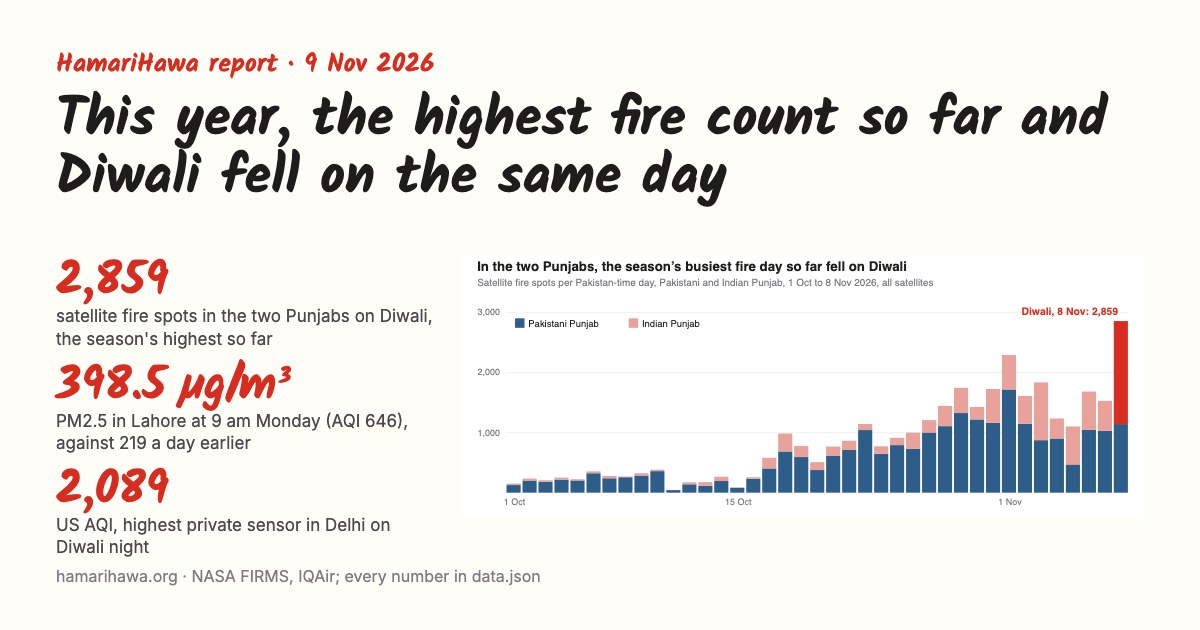
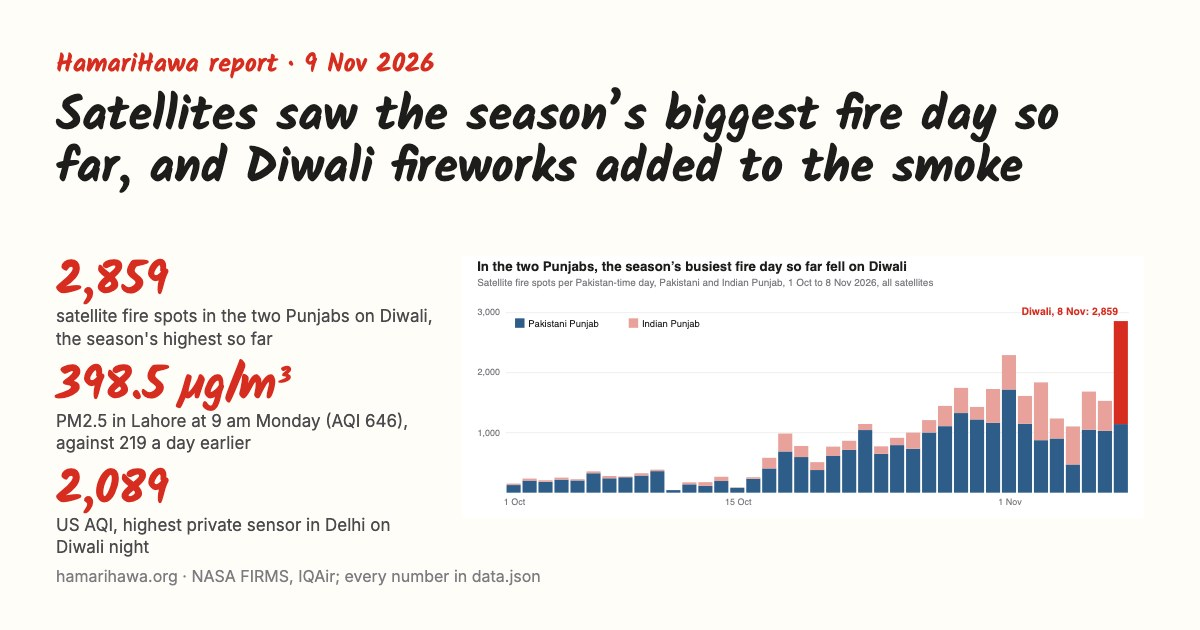
Diwali report: new headline, "Satellites saw the season's biggest fire day so far, and Diwali fireworks added to the smoke"
In English, Urdu and Hindi, with the share card, reports list, llms.txt and data.json title. The body is
unchanged: it still says the data cannot separate fireworks, crop fires and local pollution in Lahore.

Claude-Session: https://claude.ai/code/session_01XnfStAvKSSNNwFyoarvXU5

Changed region(s): [[0.0308, 0.1206, 0.925, 0.3317]]

diff --git a/site/public/report/lahore-morning-after-diwali/index.html b/site/public/report/lahore-morning-after-diwali/index.html
@@ -15,11 +15,11 @@
 </script>
 <meta charset="utf-8">
 <meta name="viewport" content="width=device-width, initial-scale=1">
-<title>This year, the highest fire count so far and Diwali fell on the same day · HamariHawa</title>
+<title>Satellites saw the season&#x27;s biggest fire day so far, and Diwali fireworks added to the smoke · HamariHawa</title>
 <meta name="description" content="On Diwali, 8 November, satellites picked up 2,859 fire spots in the two Punjabs, the season&#x27;s highest so far; in no season since 2019 had the busiest day fallen on Diwali. Private sensors in Delhi showed AQI above 1,000 that night, and IQAir&#x27;s Lahore figure rose after midnight to 398.5 µg/m³ of PM2.5 by 9 am Monday.">
 <link rel="canonical" href="https://hamarihawa.org/report/lahore-morning-after-diwali/">
 <meta property="og:type" content="website">
-<meta property="og:title" content="This year, the highest fire count so far and Diwali fell on the same day · HamariHawa">
+<meta property="og:title" content="Satellites saw the season&#x27;s biggest fire day so far, and Diwali fireworks added to the smoke · HamariHawa">
 <meta property="og:description" content="On Diwali, 8 November, satellites picked up 2,859 fire spots in the two Punjabs, the season&#x27;s highest so far; in no season since 2019 had the busiest day fallen on Diwali. Private sensors in Delhi showed AQI above 1,000 that night, and IQAir&#x27;s Lahore figure rose after midnight to 398.5 µg/m³ of PM2.5 by 9 am Monday.">
 <meta property="og:site_name" content="HamariHawa">
 <meta property="og:url" content="https://hamarihawa.org/report/lahore-morning-after-diwali/">
@@ -33,7 +33,7 @@
 <meta name="twitter:card" content="summary_large_image">
 <meta name="twitter:site" content="@hamarihawa">
 <meta name="twitter:creator" content="@hammadtariq">
-<meta name="twitter:title" content="This year, the highest fire count so far and Diwali fell on the same day · HamariHawa">
+<meta name="twitter:title" content="Satellites saw the season&#x27;s biggest fire day so far, and Diwali fireworks added to the smoke · HamariHawa">
 <meta name="twitter:description" content="On Diwali, 8 November, satellites picked up 2,859 fire spots in the two Punjabs, the season&#x27;s highest so far; in no season since 2019 had the busiest day fallen on Diwali. Private sensors in Delhi showed AQI above 1,000 that night, and IQAir&#x27;s Lahore figure rose after midnight to 398.5 µg/m³ of PM2.5 by 9 am Monday.">
 <meta name="twitter:image" content="https://hamarihawa.org/report/lahore-morning-after-diwali/share.jpg">
 <meta name="twitter:image:alt" content="On Diwali, 8 November, satellites picked up 2,859 fire spots in the two Punjabs, the season&#x27;s highest so far; in no season since 2019 had the busiest day fallen on Diwali. Private sensors in Delhi showed AQI above 1,000 that night, and IQAir&#x27;s Lahore figure rose after midnight to 398.5 µg/m³ of PM2.5 by 9 am Monday.">
@@ -78,8 +78,8 @@
  "@context": "https://schema.org",
  "@type": "Report",
  "@id": "https://hamarihawa.org/report/lahore-morning-after-diwali/#report",
- "name": "This year, the highest fire count so far and Diwali fell on the same day",
- "headline": "This year, the highest fire count so far and Diwali fell on the same day",
+ "name": "Satellites saw the season's biggest fire day so far, and Diwali fireworks added to the smoke",
+ "headline": "Satellites saw the season's biggest fire day so far, and Diwali fireworks added to the smoke",
  "url": "https://hamarihawa.org/report/lahore-morning-after-diwali/",
  "datePublished": "2026-11-09",
  "inLanguage": [
@@ -105,7 +105,7 @@
  "abstract": "Crop burning and Diwali fireworks both add smoke to the air of the two Punjabs each autumn. On Sunday 8 November 2026 they fell on the same day: satellites picked up 2,859 fire spots across Pakistani and Indian Punjab, the most of any day of the season so far, on every counting basis checked; in none of the seasons from 2019 to 2025 had the busiest day fallen on Diwali. That night all three private sensors in Delhi on IQAir passed US AQI 1,000, up to 2,089, as did three Delhi Pollution Control Committee feeds, while 17 feeds attributed to the Central Pollution Control Board stayed below 200 for reasons we could not establish. IQAir's Lahore city figure rose after midnight to 398.5 µg/m³ of PM2.5 (US AQI 646) at 9 am on Monday, against 219 a day earlier; 48 of 49 Lahore station feeds with readings on both mornings were higher. Multan and Faisalabad rose too. Punjab's Environment Protection Department had warned of the rise, according to a Dunya News report, while the CAMS model series retrieved on Monday had Lahore getting cleaner. Modelled winds suggest Lahore's overnight air came from Indian Punjab. The data cannot separate the contributions of fireworks, crop fires and the cities' own pollution.",
  "isBasedOn": {
   "@type": "Dataset",
-  "name": "Evidence for \"This year, the highest fire count so far and Diwali fell on the same day\"",
+  "name": "Evidence for \"Satellites saw the season's biggest fire day so far, and Diwali fireworks added to the smoke\"",
   "url": "https://hamarihawa.org/report/lahore-morning-after-diwali/data.json",
   "license": "https://creativecommons.org/licenses/by/4.0/"
  }
@@ -170,7 +170,7 @@
 <main class="doc wide">
 <article data-lang="en">
   <p class="kicker">Report · 9 Nov 2026</p>
-  <h1>This year, the highest fire count so far and Diwali fell on the same day</h1>
+  <h1>Satellites saw the season's biggest fire day so far, and Diwali fireworks added to the smoke</h1>
   <p class="byline">By <a href="https://hammadtariq.com/" rel="author">Hammad Tariq</a></p>
   <p class="lede">Every autumn, two human activities add smoke to the air of both Punjabs: farmers burning crop stubble, and Diwali fireworks. This year they fell on the same day. On Sunday 8 November, Diwali, satellites picked up 2,859 fire spots across Pakistani and Indian Punjab, the most of any day this season so far; in none of the seven seasons from 2019 to 2025 had the busiest day fallen on Diwali. That night, private air sensors in Delhi displayed US AQI readings above 1,000, up to 2,089. In Lahore, IQAir's city figure rose through the night after midnight and reached 398.5 µg/m³ of fine particles (PM2.5), a US AQI of 646, at 9 am on Monday, against 219 at the same hour on Sunday. Multan and Faisalabad rose too. Punjab's Environment Protection Department had warned of this on Sunday afternoon, according to a Dunya News report; the CAMS model series we retrieved on Monday had Lahore getting cleaner overnight. What the data cannot do is say how much of Monday morning came from the fires, how much from fireworks on either side of the border, and how much from Lahore itself.</p>
   <div class="facts"><div class="fact sketch"><b dir="ltr">2,859</b><span>satellite fire spots in the two Punjabs on Diwali, 8 November: the season's highest so far</span></div><div class="fact sketch"><b dir="ltr">398.5</b><span>µg/m³ PM2.5, IQAir's Lahore city figure at 9 am Monday (AQI 646), against 219 a day earlier</span></div><div class="fact sketch"><b dir="ltr">48 of 49</b><span>Lahore station feeds on IQAir higher at 9 am Monday than at 9 am Sunday</span></div><div class="fact sketch"><b dir="ltr">2,089</b><span>US AQI, the highest of three private sensors in Delhi that passed 1,000 on Diwali night</span></div></div>
@@ -247,7 +247,7 @@
 </article>
 <article data-lang="ur" hidden>
   <p class="kicker">رپورٹ · 9 نومبر 2026</p>
-  <h1>اس سال فصلوں کی آگ کا اب تک کا سب سے بڑا دن اور دیوالی ایک ہی دن آئے</h1>
+  <h1>سیٹلائٹ نے اس سیزن کا اب تک کا سب سے بڑا آگ والا دن دیکھا، اور دیوالی کی آتش بازی نے دھواں اور بڑھا دیا</h1>
   <p class="byline">تحریر: <a href="https://hammadtariq.com/" rel="author">حماد طارق</a></p>
   <p class="lede">ہر سال خزاں میں انسانوں کے دو کام دونوں پنجابوں کی فضا میں دھواں بھرتے ہیں: کسانوں کا فصلوں کی باقیات جلانا، اور دیوالی کی آتش بازی۔ اس بار یہ دونوں ایک ہی دن آن پڑے۔ اتوار 8 نومبر کو، جو دیوالی کا دن تھا، سیٹلائٹ نے پاکستانی اور ہندوستانی پنجاب میں آگ کے 2,859 مقامات دیکھے، جو اس سیزن میں اب تک کسی بھی دن سے زیادہ ہیں؛ 2019 سے 2025 تک کے سات سیزنوں میں ایک بار بھی آگ کا سب سے بڑا دن دیوالی پر نہیں پڑا تھا۔ اسی رات دہلی میں نجی سینسروں نے US AQI کی 1,000 سے زیادہ ریڈنگز دکھائیں، جو 2,089 تک گئیں۔ لاہور میں IQAir کا شہری عدد آدھی رات کے بعد پوری رات چڑھتا رہا اور پیر کی صبح 9 بجے باریک ذرات (PM2.5) کی مقدار 398.5 µg/m³ تک جا پہنچی، یعنی US AQI 646، جبکہ اتوار کو اسی وقت یہ 219 تھی۔ ملتان اور فیصل آباد میں بھی آلودگی بڑھی۔ دنیا نیوز کی ایک خبر کے مطابق پنجاب کے محکمہ تحفظ ماحولیات نے اتوار کی سہ پہر اس کی پیشگی وارننگ دے دی تھی؛ اس کے برعکس پیر کو ہم نے CAMS ماڈل کی جو سیریز حاصل کی، اس میں رات بھر لاہور کی فضا صاف ہوتی دکھائی گئی تھی۔ یہ اعداد و شمار یہ نہیں بتا سکتے کہ پیر کی صبح کی آلودگی میں کتنا حصہ فصلوں کی آگ کا تھا، کتنا سرحد کے دونوں طرف کی آتش بازی کا، اور کتنا خود لاہور کا۔</p>
   <div class="facts"><div class="fact sketch"><b dir="ltr">2,859</b><span>دیوالی، 8 نومبر کو دونوں پنجابوں میں سیٹلائٹ سے دیکھے گئے آگ کے مقامات: اس سیزن میں اب تک سب سے زیادہ</span></div><div class="fact sketch"><b dir="ltr">398.5</b><span>µg/m³ PM2.5، پیر صبح 9 بجے IQAir کا لاہور کا شہری عدد (AQI 646)، ایک دن پہلے 219</span></div><div class="fact sketch"><b dir="ltr">48/49</b><span>IQAir پر لاہور کی 49 میں سے 48 اسٹیشن فیڈز میں پیر صبح 9 بجے کی ریڈنگ اتوار صبح 9 بجے سے زیادہ</span></div><div class="fact sketch"><b dir="ltr">2,089</b><span>US AQI، دیوالی کی رات دہلی کے ان تین نجی سینسروں میں سب سے اونچی ریڈنگ جو 1,000 سے اوپر گئے</span></div></div>
@@ -324,7 +324,7 @@
 </article>
 <article data-lang="hi" hidden>
   <p class="kicker">रिपोर्ट · 9 नवंबर 2026</p>
-  <h1>इस साल पराली की आग का अब तक का सबसे बड़ा दिन और दिवाली एक ही दिन पड़े</h1>
+  <h1>सैटेलाइटों ने इस सीज़न का अब तक का सबसे बड़ा आग वाला दिन देखा, और दिवाली की आतिशबाज़ी ने धुआँ और बढ़ा दिया</h1>
   <p class="byline">लेखक: <a href="https://hammadtariq.com/" rel="author">हम्माद तारिक़</a></p>
   <p class="lede">हर साल पतझड़ में इंसानों के दो काम दोनों पंजाबों की हवा में धुआँ भरते हैं: किसानों का पराली जलाना, और दिवाली की आतिशबाज़ी। इस बार दोनों एक ही दिन आ पड़े। रविवार 8 नवंबर को, दिवाली के दिन, सैटेलाइटों ने पाकिस्तानी और भारतीय पंजाब में आग के 2,859 निशान पकड़े, जो इस सीज़न में अब तक किसी भी दिन से ज़्यादा हैं; 2019 से 2025 तक के सात सीज़नों में एक बार भी आग का सबसे बड़ा दिन दिवाली पर नहीं पड़ा था। उसी रात दिल्ली में निजी सेंसरों ने US AQI की 1,000 से ऊपर की रीडिंग दिखाई, जो 2,089 तक गई। लाहौर में IQAir का शहर का आंकड़ा आधी रात के बाद पूरी रात चढ़ता रहा और सोमवार सुबह 9 बजे बारीक कणों (PM2.5) की मात्रा 398.5 µg/m³ तक पहुँच गई, यानी US AQI 646, जबकि रविवार को उसी वक़्त यह 219 थी। मुल्तान और फ़ैसलाबाद में भी प्रदूषण बढ़ा। दुनिया न्यूज़ की एक ख़बर के मुताबिक़ पाकिस्तानी पंजाब के पर्यावरण संरक्षण विभाग ने रविवार दोपहर इसकी पहले से चेतावनी दे दी थी; इसके उलट, सोमवार को हमने CAMS मॉडल की जो सीरीज़ ली, उसमें रात भर लाहौर की हवा साफ़ होती दिख रही थी। ये आंकड़े यह नहीं बता सकते कि सोमवार सुबह के प्रदूषण में कितना हिस्सा पराली की आग का था, कितना सरहद के दोनों तरफ़ की आतिशबाज़ी का, और कितना ख़ुद लाहौर का।</p>
   <div class="facts"><div class="fact sketch"><b dir="ltr">2,859</b><span>दिवाली, 8 नवंबर को दोनों पंजाबों में सैटेलाइट पर दिखे आग के निशान: इस सीज़न में अब तक सबसे ज़्यादा</span></div><div class="fact sketch"><b dir="ltr">398.5</b><span>µg/m³ PM2.5, सोमवार सुबह 9 बजे IQAir का लाहौर का आंकड़ा (AQI 646), एक दिन पहले 219</span></div><div class="fact sketch"><b>49 में से 48</b><span>IQAir पर लाहौर की स्टेशन फ़ीड जिनकी सोमवार सुबह 9 बजे की रीडिंग रविवार सुबह 9 बजे से ज़्यादा थी</span></div><div class="fact sketch"><b dir="ltr">2,089</b><span>US AQI, दिवाली की रात दिल्ली के उन तीन निजी सेंसरों में सबसे ऊँची रीडिंग जो 1,000 के पार गए</span></div></div>

diff --git a/site/public/reports/index.html b/site/public/reports/index.html
@@ -16,11 +16,11 @@
 <meta charset="utf-8">
 <meta name="viewport" content="width=device-width, initial-scale=1">
 <title>Reports · HamariHawa</title>
-<meta name="description" content="HamariHawa&#x27;s reports on air pollution and crop fires in Pakistan and India: the highest fire count so far and Diwali on the same day (Lahore and Delhi, 8-9 Nov 2026), Lahore&#x27;s smog source by source (2026), Madhya Pradesh overtakes Indian Punjab (October fire spots 2019-2026), Two Punjabs (crop fires 2019-2025) and the Lahore &amp; Islamabad Air Ledger.">
+<meta name="description" content="HamariHawa&#x27;s reports on air pollution and crop fires in Pakistan and India: the season&#x27;s biggest fire day so far and Diwali fireworks (Lahore and Delhi, 8-9 Nov 2026), Lahore&#x27;s smog source by source (2026), Madhya Pradesh overtakes Indian Punjab (October fire spots 2019-2026), Two Punjabs (crop fires 2019-2025) and the Lahore &amp; Islamabad Air Ledger.">
 <link rel="canonical" href="https://hamarihawa.org/reports/">
 <meta property="og:type" content="website">
 <meta property="og:title" content="Reports · HamariHawa">
-<meta property="og:description" content="HamariHawa&#x27;s reports on air pollution and crop fires in Pakistan and India: the highest fire count so far and Diwali on the same day (Lahore and Delhi, 8-9 Nov 2026), Lahore&#x27;s smog source by source (2026), Madhya Pradesh overtakes Indian Punjab (October fire spots 2019-2026), Two Punjabs (crop fires 2019-2025) and the Lahore &amp; Islamabad Air Ledger.">
+<meta property="og:description" content="HamariHawa&#x27;s reports on air pollution and crop fires in Pakistan and India: the season&#x27;s biggest fire day so far and Diwali fireworks (Lahore and Delhi, 8-9 Nov 2026), Lahore&#x27;s smog source by source (2026), Madhya Pradesh overtakes Indian Punjab (October fire spots 2019-2026), Two Punjabs (crop fires 2019-2025) and the Lahore &amp; Islamabad Air Ledger.">
 <meta property="og:site_name" content="HamariHawa">
 <meta property="og:url" content="https://hamarihawa.org/reports/">
 <meta property="og:image" content="https://hamarihawa.org/og/map-v3.png">
@@ -34,7 +34,7 @@
 <meta name="twitter:site" content="@hamarihawa">
 <meta name="twitter:creator" content="@hammadtariq">
 <meta name="twitter:title" content="Reports · HamariHawa">
-<meta name="twitter:description" content="HamariHawa&#x27;s reports on air pollution and crop fires in Pakistan and India: the highest fire count so far and Diwali on the same day (Lahore and Delhi, 8-9 Nov 2026), Lahore&#x27;s smog source by source (2026), Madhya Pradesh overtakes Indian Punjab (October fire spots 2019-2026), Two Punjabs (crop fires 2019-2025) and the Lahore &amp; Islamabad Air Ledger.">
+<meta name="twitter:description" content="HamariHawa&#x27;s reports on air pollution and crop fires in Pakistan and India: the season&#x27;s biggest fire day so far and Diwali fireworks (Lahore and Delhi, 8-9 Nov 2026), Lahore&#x27;s smog source by source (2026), Madhya Pradesh overtakes Indian Punjab (October fire spots 2019-2026), Two Punjabs (crop fires 2019-2025) and the Lahore &amp; Islamabad Air Ledger.">
 <meta name="twitter:image" content="https://hamarihawa.org/og/map-v3.png">
 <meta name="twitter:image:alt" content="HamariHawa: live fire and air map of Pakistan and India">
 <link rel="apple-touch-icon" href="/apple-touch-icon.png">
@@ -60,7 +60,7 @@
  "hasPart": [
   {
    "@type": "Report",
-   "name": "This year, the highest fire count so far and Diwali fell on the same day",
+   "name": "Satellites saw the season's biggest fire day so far, and Diwali fireworks added to the smoke",
    "url": "https://hamarihawa.org/report/lahore-morning-after-diwali/",
    "datePublished": "2026-11-09"
   },
@@ -151,7 +151,7 @@
 <article data-lang="en">
   <h1>Reports</h1>
   <p class="lede">Longer pieces built from HamariHawa's data, newest first.</p>
-  <section class="entry"><time datetime="2026-11-09">9 November 2026</time><h2><a href="/report/lahore-morning-after-diwali/">This year, the highest fire count so far and Diwali fell on the same day</a></h2><p>On Diwali, 8 November, satellites picked up 2,859 fire spots in the two Punjabs, the season's highest so far, a coincidence not seen since at least 2019. Private sensors in Delhi passed AQI 1,000 that night, and Lahore's air rose after midnight to 398.5 µg/m³ of PM2.5 by 9 am Monday. The data cannot separate fireworks, crop fires and the cities' own pollution.</p></section>
+  <section class="entry"><time datetime="2026-11-09">9 November 2026</time><h2><a href="/report/lahore-morning-after-diwali/">Satellites saw the season&#x27;s biggest fire day so far, and Diwali fireworks added to the smoke</a></h2><p>On Diwali, 8 November, satellites picked up 2,859 fire spots in the two Punjabs, the season's highest so far, a coincidence not seen since at least 2019. Private sensors in Delhi passed AQI 1,000 that night, and Lahore's air rose after midnight to 398.5 µg/m³ of PM2.5 by 9 am Monday. The data cannot separate fireworks, crop fires and the cities' own pollution.</p></section>
   <section class="entry"><time datetime="2026-11-02">2 November 2026</time><h2><a href="/report/lahore-smog-sources/">Lahore&#x27;s smog: the year-round baseline, and what changes in October</a></h2><p>Lahore's fine-particle pollution was above Pakistan's 24-hour standard in every month of the past year. In October and November the air it mixes into gets shallower, and crop fires break out around the city, on top of that year-round baseline.</p></section>
   <section class="entry"><time datetime="2026-10-28">28 October 2026</time><h2><a href="/report/madhya-pradesh-indian-punjab-fire-spots/">Madhya Pradesh overtakes Indian Punjab: satellite fire spots in October, 2019–2026</a></h2><p>From 1 to 24 October 2026 Madhya Pradesh had its most satellite fire spots in eight years, and Indian Punjab and Haryana their fewest.</p></section>
   <section class="entry"><time datetime="2026-10-20">20 October 2026</time><h2><a href="/report/two-punjabs/">Two Punjabs: seven seasons of crop fires</a></h2><p>Satellite-seen crop fires fell 95% in Indian Punjab since 2021 but not in Pakistani Punjab, which has had more since 2024. Checked against India's official counts, with district tables and why fire counts undercount.</p></section>
@@ -160,7 +160,7 @@
 <article data-lang="ur" hidden>
   <h1>رپورٹس</h1>
   <p class="lede">ہماری ہوا کے ڈیٹا سے تیار کی گئی تفصیلی رپورٹس، تازہ ترین سب سے اوپر۔</p>
-  <section class="entry"><time datetime="2026-11-09">9 نومبر 2026</time><h2><a href="/report/lahore-morning-after-diwali/">This year, the highest fire count so far and Diwali fell on the same day</a></h2><p>دیوالی، 8 نومبر کو سیٹلائٹ نے دونوں پنجابوں میں آگ کے 2,859 مقامات دیکھے، جو اس سیزن میں اب تک سب سے زیادہ ہیں؛ 2019 کے بعد ایسا پہلی بار ہوا۔ اسی رات دہلی کے نجی سینسر AQI 1,000 سے اوپر گئے، اور لاہور کی فضا آدھی رات کے بعد بگڑ کر پیر صبح 9 بجے PM2.5 کے 398.5 µg/m³ تک پہنچ گئی۔ یہ اعداد و شمار آتش بازی، فصلوں کی آگ اور شہروں کی اپنی آلودگی کا حصہ الگ نہیں کر سکتے۔</p></section>
+  <section class="entry"><time datetime="2026-11-09">9 نومبر 2026</time><h2><a href="/report/lahore-morning-after-diwali/">Satellites saw the season&#x27;s biggest fire day so far, and Diwali fireworks added to the smoke</a></h2><p>دیوالی، 8 نومبر کو سیٹلائٹ نے دونوں پنجابوں میں آگ کے 2,859 مقامات دیکھے، جو اس سیزن میں اب تک سب سے زیادہ ہیں؛ 2019 کے بعد ایسا پہلی بار ہوا۔ اسی رات دہلی کے نجی سینسر AQI 1,000 سے اوپر گئے، اور لاہور کی فضا آدھی رات کے بعد بگڑ کر پیر صبح 9 بجے PM2.5 کے 398.5 µg/m³ تک پہنچ گئی۔ یہ اعداد و شمار آتش بازی، فصلوں کی آگ اور شہروں کی اپنی آلودگی کا حصہ الگ نہیں کر سکتے۔</p></section>
   <section class="entry"><time datetime="2026-11-02">2 نومبر 2026</time><h2><a href="/report/lahore-smog-sources/">Lahore&#x27;s smog: the year-round baseline, and what changes in October</a></h2><p>گزشتہ ایک سال میں لاہور میں باریک ذرات کی آلودگی ہر مہینے پاکستان کی 24 گھنٹے کی مقررہ حد سے اوپر رہی۔ اکتوبر اور نومبر میں سال بھر کی اس آلودگی پر مزید دو چیزیں آ جاتی ہیں: ہوا کی جس تہہ میں دھواں پھیلتا ہے وہ پتلی ہو جاتی ہے، اور شہر کے ارد گرد فصلوں کو آگ لگنے لگتی ہے۔</p></section>
   <section class="entry"><time datetime="2026-10-28">28 اکتوبر 2026</time><h2><a href="/report/madhya-pradesh-indian-punjab-fire-spots/">Madhya Pradesh overtakes Indian Punjab: satellite fire spots in October, 2019–2026</a></h2><p>1 سے 24 اکتوبر 2026 کے دوران مدھیہ پردیش میں سیٹلائٹ سے دیکھے گئے آگ کے مقامات آٹھ برسوں میں سب سے زیادہ رہے، جبکہ ہندوستانی پنجاب اور ہریانہ میں سب سے کم۔</p></section>
   <section class="entry"><time datetime="2026-10-20">20 اکتوبر 2026</time><h2><a href="/report/two-punjabs/">Two Punjabs: seven seasons of crop fires</a></h2><p>2021 کے بعد ہندوستانی پنجاب میں سیٹلائٹ کو نظر آنے والی آگ 95% کم ہو گئی، مگر پاکستانی پنجاب میں کم نہیں ہوئی، جہاں 2024 سے ہندوستانی پنجاب سے زیادہ آگ دیکھی جا رہی ہے۔ رپورٹ میں ہندوستان کے سرکاری اعداد سے جانچ، اضلاع کی فہرست، اور یہ وضاحت بھی ہے کہ آگ کی گنتی اصل سے کم کیوں ہوتی ہے۔</p></section>
@@ -169,7 +169,7 @@
 <article data-lang="hi" hidden>
   <h1>रिपोर्ट</h1>
   <p class="lede">हमारी हवा के डेटा पर आधारित विस्तृत रिपोर्टें, सबसे नई सबसे ऊपर।</p>
-  <section class="entry"><time datetime="2026-11-09">9 नवंबर 2026</time><h2><a href="/report/lahore-morning-after-diwali/">This year, the highest fire count so far and Diwali fell on the same day</a></h2><p>दिवाली, 8 नवंबर को सैटेलाइटों ने दोनों पंजाबों में आग के 2,859 निशान पकड़े, जो इस सीज़न में अब तक सबसे ज़्यादा हैं; 2019 के बाद ऐसा पहली बार हुआ। उसी रात दिल्ली के निजी सेंसर AQI 1,000 के पार गए, और लाहौर की हवा आधी रात के बाद बिगड़कर सोमवार सुबह 9 बजे PM2.5 के 398.5 µg/m³ तक पहुँच गई। ये आंकड़े आतिशबाज़ी, पराली की आग और शहरों के अपने प्रदूषण का हिस्सा अलग नहीं कर सकते।</p></section>
+  <section class="entry"><time datetime="2026-11-09">9 नवंबर 2026</time><h2><a href="/report/lahore-morning-after-diwali/">Satellites saw the season&#x27;s biggest fire day so far, and Diwali fireworks added to the smoke</a></h2><p>दिवाली, 8 नवंबर को सैटेलाइटों ने दोनों पंजाबों में आग के 2,859 निशान पकड़े, जो इस सीज़न में अब तक सबसे ज़्यादा हैं; 2019 के बाद ऐसा पहली बार हुआ। उसी रात दिल्ली के निजी सेंसर AQI 1,000 के पार गए, और लाहौर की हवा आधी रात के बाद बिगड़कर सोमवार सुबह 9 बजे PM2.5 के 398.5 µg/m³ तक पहुँच गई। ये आंकड़े आतिशबाज़ी, पराली की आग और शहरों के अपने प्रदूषण का हिस्सा अलग नहीं कर सकते।</p></section>
   <section class="entry"><time datetime="2026-11-02">2 नवंबर 2026</time><h2><a href="/report/lahore-smog-sources/">Lahore&#x27;s smog: the year-round baseline, and what changes in October</a></h2><p>पिछले एक साल में लाहौर में बारीक कणों का प्रदूषण हर महीने पाकिस्तान की 24 घंटे की सीमा से ऊपर रहा। अक्टूबर और नवंबर में, साल भर के इस बुनियादी प्रदूषण के ऊपर, हवा की वह परत पतली हो जाती है जिसमें धुआँ घुलता है, और शहर के आसपास खेतों में आग लगने लगती है।</p></section>
   <section class="entry"><time datetime="2026-10-28">28 अक्टूबर 2026</time><h2><a href="/report/madhya-pradesh-indian-punjab-fire-spots/">Madhya Pradesh overtakes Indian Punjab: satellite fire spots in October, 2019–2026</a></h2><p>1 से 24 अक्टूबर 2026 के बीच मध्य प्रदेश में आठ साल में सबसे ज़्यादा आग की जगहें उपग्रह से दिखीं, जबकि भारतीय पंजाब और हरियाणा में सबसे कम।</p></section>
   <section class="entry"><time datetime="2026-10-20">20 अक्टूबर 2026</time><h2><a href="/report/two-punjabs/">Two Punjabs: seven seasons of crop fires</a></h2><p>2021 के बाद भारतीय पंजाब में उपग्रह को दिखने वाली आग 95% घट गई, लेकिन पाकिस्तानी पंजाब में नहीं घटी, जहाँ 2024 से ज़्यादा आग दिख रही है। साथ में भारत के सरकारी आँकड़ों से जाँच, ज़िलों की तालिकाएँ, और यह कि आग की गिनती असल से कम क्यों रहती है।</p></section>

diff --git a/scripts/reports/lahore-morning-after-diwali/article.hi.html b/scripts/reports/lahore-morning-after-diwali/article.hi.html
@@ -1,5 +1,5 @@
   <p class="kicker">रिपोर्ट · 9 नवंबर 2026</p>
-  <h1>इस साल पराली की आग का अब तक का सबसे बड़ा दिन और दिवाली एक ही दिन पड़े</h1>
+  <h1>सैटेलाइटों ने इस सीज़न का अब तक का सबसे बड़ा आग वाला दिन देखा, और दिवाली की आतिशबाज़ी ने धुआँ और बढ़ा दिया</h1>
   <p class="byline">लेखक: <a href="https://hammadtariq.com/" rel="author">हम्माद तारिक़</a></p>
   <p class="lede">हर साल पतझड़ में इंसानों के दो काम दोनों पंजाबों की हवा में धुआँ भरते हैं: किसानों का पराली जलाना, और दिवाली की आतिशबाज़ी। इस बार दोनों एक ही दिन आ पड़े। रविवार 8 नवंबर को, दिवाली के दिन, सैटेलाइटों ने पाकिस्तानी और भारतीय पंजाब में आग के 2,859 निशान पकड़े, जो इस सीज़न में अब तक किसी भी दिन से ज़्यादा हैं; 2019 से 2025 तक के सात सीज़नों में एक बार भी आग का सबसे बड़ा दिन दिवाली पर नहीं पड़ा था। उसी रात दिल्ली में निजी सेंसरों ने US AQI की 1,000 से ऊपर की रीडिंग दिखाई, जो 2,089 तक गई। लाहौर में IQAir का शहर का आंकड़ा आधी रात के बाद पूरी रात चढ़ता रहा और सोमवार सुबह 9 बजे बारीक कणों (PM2.5) की मात्रा 398.5 µg/m³ तक पहुँच गई, यानी US AQI 646, जबकि रविवार को उसी वक़्त यह 219 थी। मुल्तान और फ़ैसलाबाद में भी प्रदूषण बढ़ा। दुनिया न्यूज़ की एक ख़बर के मुताबिक़ पाकिस्तानी पंजाब के पर्यावरण संरक्षण विभाग ने रविवार दोपहर इसकी पहले से चेतावनी दे दी थी; इसके उलट, सोमवार को हमने CAMS मॉडल की जो सीरीज़ ली, उसमें रात भर लाहौर की हवा साफ़ होती दिख रही थी। ये आंकड़े यह नहीं बता सकते कि सोमवार सुबह के प्रदूषण में कितना हिस्सा पराली की आग का था, कितना सरहद के दोनों तरफ़ की आतिशबाज़ी का, और कितना ख़ुद लाहौर का।</p>
   <div class="facts"><div class="fact sketch"><b dir="ltr">2,859</b><span>दिवाली, 8 नवंबर को दोनों पंजाबों में सैटेलाइट पर दिखे आग के निशान: इस सीज़न में अब तक सबसे ज़्यादा</span></div><div class="fact sketch"><b dir="ltr">398.5</b><span>µg/m³ PM2.5, सोमवार सुबह 9 बजे IQAir का लाहौर का आंकड़ा (AQI 646), एक दिन पहले 219</span></div><div class="fact sketch"><b>49 में से 48</b><span>IQAir पर लाहौर की स्टेशन फ़ीड जिनकी सोमवार सुबह 9 बजे की रीडिंग रविवार सुबह 9 बजे से ज़्यादा थी</span></div><div class="fact sketch"><b dir="ltr">2,089</b><span>US AQI, दिवाली की रात दिल्ली के उन तीन निजी सेंसरों में सबसे ऊँची रीडिंग जो 1,000 के पार गए</span></div></div>

diff --git a/scripts/reports/lahore-morning-after-diwali/article.ur.html b/scripts/reports/lahore-morning-after-diwali/article.ur.html
@@ -1,5 +1,5 @@
   <p class="kicker">رپورٹ · 9 نومبر 2026</p>
-  <h1>اس سال فصلوں کی آگ کا اب تک کا سب سے بڑا دن اور دیوالی ایک ہی دن آئے</h1>
+  <h1>سیٹلائٹ نے اس سیزن کا اب تک کا سب سے بڑا آگ والا دن دیکھا، اور دیوالی کی آتش بازی نے دھواں اور بڑھا دیا</h1>
   <p class="byline">تحریر: <a href="https://hammadtariq.com/" rel="author">حماد طارق</a></p>
   <p class="lede">ہر سال خزاں میں انسانوں کے دو کام دونوں پنجابوں کی فضا میں دھواں بھرتے ہیں: کسانوں کا فصلوں کی باقیات جلانا، اور دیوالی کی آتش بازی۔ اس بار یہ دونوں ایک ہی دن آن پڑے۔ اتوار 8 نومبر کو، جو دیوالی کا دن تھا، سیٹلائٹ نے پاکستانی اور ہندوستانی پنجاب میں آگ کے 2,859 مقامات دیکھے، جو اس سیزن میں اب تک کسی بھی دن سے زیادہ ہیں؛ 2019 سے 2025 تک کے سات سیزنوں میں ایک بار بھی آگ کا سب سے بڑا دن دیوالی پر نہیں پڑا تھا۔ اسی رات دہلی میں نجی سینسروں نے US AQI کی 1,000 سے زیادہ ریڈنگز دکھائیں، جو 2,089 تک گئیں۔ لاہور میں IQAir کا شہری عدد آدھی رات کے بعد پوری رات چڑھتا رہا اور پیر کی صبح 9 بجے باریک ذرات (PM2.5) کی مقدار 398.5 µg/m³ تک جا پہنچی، یعنی US AQI 646، جبکہ اتوار کو اسی وقت یہ 219 تھی۔ ملتان اور فیصل آباد میں بھی آلودگی بڑھی۔ دنیا نیوز کی ایک خبر کے مطابق پنجاب کے محکمہ تحفظ ماحولیات نے اتوار کی سہ پہر اس کی پیشگی وارننگ دے دی تھی؛ اس کے برعکس پیر کو ہم نے CAMS ماڈل کی جو سیریز حاصل کی، اس میں رات بھر لاہور کی فضا صاف ہوتی دکھائی گئی تھی۔ یہ اعداد و شمار یہ نہیں بتا سکتے کہ پیر کی صبح کی آلودگی میں کتنا حصہ فصلوں کی آگ کا تھا، کتنا سرحد کے دونوں طرف کی آتش بازی کا، اور کتنا خود لاہور کا۔</p>
   <div class="facts"><div class="fact sketch"><b dir="ltr">2,859</b><span>دیوالی، 8 نومبر کو دونوں پنجابوں میں سیٹلائٹ سے دیکھے گئے آگ کے مقامات: اس سیزن میں اب تک سب سے زیادہ</span></div><div class="fact sketch"><b dir="ltr">398.5</b><span>µg/m³ PM2.5، پیر صبح 9 بجے IQAir کا لاہور کا شہری عدد (AQI 646)، ایک دن پہلے 219</span></div><div class="fact sketch"><b dir="ltr">48/49</b><span>IQAir پر لاہور کی 49 میں سے 48 اسٹیشن فیڈز میں پیر صبح 9 بجے کی ریڈنگ اتوار صبح 9 بجے سے زیادہ</span></div><div class="fact sketch"><b dir="ltr">2,089</b><span>US AQI، دیوالی کی رات دہلی کے ان تین نجی سینسروں میں سب سے اونچی ریڈنگ جو 1,000 سے اوپر گئے</span></div></div>

diff --git a/scripts/reports/lahore-morning-after-diwali/article.en.html b/scripts/reports/lahore-morning-after-diwali/article.en.html
@@ -1,5 +1,5 @@
   <p class="kicker">Report · 9 Nov 2026</p>
-  <h1>This year, the highest fire count so far and Diwali fell on the same day</h1>
+  <h1>Satellites saw the season's biggest fire day so far, and Diwali fireworks added to the smoke</h1>
   <p class="byline">By <a href="https://hammadtariq.com/" rel="author">Hammad Tariq</a></p>
   <p class="lede">Every autumn, two human activities add smoke to the air of both Punjabs: farmers burning crop stubble, and Diwali fireworks. This year they fell on the same day. On Sunday 8 November, Diwali, satellites picked up 2,859 fire spots across Pakistani and Indian Punjab, the most of any day this season so far; in none of the seven seasons from 2019 to 2025 had the busiest day fallen on Diwali. That night, private air sensors in Delhi displayed US AQI readings above 1,000, up to 2,089. In Lahore, IQAir's city figure rose through the night after midnight and reached 398.5 µg/m³ of fine particles (PM2.5), a US AQI of 646, at 9 am on Monday, against 219 at the same hour on Sunday. Multan and Faisalabad rose too. Punjab's Environment Protection Department had warned of this on Sunday afternoon, according to a Dunya News report; the CAMS model series we retrieved on Monday had Lahore getting cleaner overnight. What the data cannot do is say how much of Monday morning came from the fires, how much from fireworks on either side of the border, and how much from Lahore itself.</p>
   <div class="facts"><div class="fact sketch"><b dir="ltr">2,859</b><span>satellite fire spots in the two Punjabs on Diwali, 8 November: the season's highest so far</span></div><div class="fact sketch"><b dir="ltr">398.5</b><span>µg/m³ PM2.5, IQAir's Lahore city figure at 9 am Monday (AQI 646), against 219 a day earlier</span></div><div class="fact sketch"><b dir="ltr">48 of 49</b><span>Lahore station feeds on IQAir higher at 9 am Monday than at 9 am Sunday</span></div><div class="fact sketch"><b dir="ltr">2,089</b><span>US AQI, the highest of three private sensors in Delhi that passed 1,000 on Diwali night</span></div></div>

diff --git a/scripts/build-pages.py b/scripts/build-pages.py
@@ -313,7 +313,7 @@ def trends_page():
 
 
 REPORTS = [  # newest first: (path, date, title, summary per language)
-    ("/report/lahore-morning-after-diwali/", "2026-11-09", "This year, the highest fire count so far and Diwali fell on the same day", {
+    ("/report/lahore-morning-after-diwali/", "2026-11-09", "Satellites saw the season's biggest fire day so far, and Diwali fireworks added to the smoke", {
         "en": "On Diwali, 8 November, satellites picked up 2,859 fire spots in the two Punjabs, the season's highest so far, a coincidence not seen since at least 2019. Private sensors in Delhi passed AQI 1,000 that night, and Lahore's air rose after midnight to 398.5 µg/m³ of PM2.5 by 9 am Monday. The data cannot separate fireworks, crop fires and the cities' own pollution.",
         "ur": "دیوالی، 8 نومبر کو سیٹلائٹ نے دونوں پنجابوں میں آگ کے 2,859 مقامات دیکھے، جو اس سیزن میں اب تک سب سے زیادہ ہیں؛ 2019 کے بعد ایسا پہلی بار ہوا۔ اسی رات دہلی کے نجی سینسر AQI 1,000 سے اوپر گئے، اور لاہور کی فضا آدھی رات کے بعد بگڑ کر پیر صبح 9 بجے PM2.5 کے 398.5 µg/m³ تک پہنچ گئی۔ یہ اعداد و شمار آتش بازی، فصلوں کی آگ اور شہروں کی اپنی آلودگی کا حصہ الگ نہیں کر سکتے۔",
         "hi": "दिवाली, 8 नवंबर को सैटेलाइटों ने दोनों पंजाबों में आग के 2,859 निशान पकड़े, जो इस सीज़न में अब तक सबसे ज़्यादा हैं; 2019 के बाद ऐसा पहली बार हुआ। उसी रात दिल्ली के निजी सेंसर AQI 1,000 के पार गए, और लाहौर की हवा आधी रात के बाद बिगड़कर सोमवार सुबह 9 बजे PM2.5 के 398.5 µg/m³ तक पहुँच गई। ये आंकड़े आतिशबाज़ी, पराली की आग और शहरों के अपने प्रदूषण का हिस्सा अलग नहीं कर सकते।"}),
@@ -346,7 +346,7 @@ def reports_page():
     jsonld = {"@context": "https://schema.org", "@type": "CollectionPage", "@id": f"{SITE}/reports/#page", "name": "HamariHawa reports",
               "url": f"{SITE}/reports/", "inLanguage": ["en", "ur", "hi"], "publisher": ORG,
               "hasPart": [{"@type": "Report", "name": t, "url": f"{SITE}{p}", "datePublished": d} for p, d, t, _ in REPORTS]}
-    out = page("/reports/", "Reports", "HamariHawa's reports on air pollution and crop fires in Pakistan and India: the highest fire count so far and Diwali on the same day (Lahore and Delhi, 8-9 Nov 2026), Lahore's smog source by source (2026), Madhya Pradesh overtakes Indian Punjab (October fire spots 2019-2026), Two Punjabs (crop fires 2019-2025) and the Lahore & Islamabad Air Ledger.",
+    out = page("/reports/", "Reports", "HamariHawa's reports on air pollution and crop fires in Pakistan and India: the season's biggest fire day so far and Diwali fireworks (Lahore and Delhi, 8-9 Nov 2026), Lahore's smog source by source (2026), Madhya Pradesh overtakes Indian Punjab (October fire spots 2019-2026), Two Punjabs (crop fires 2019-2025) and the Lahore & Islamabad Air Ledger.",
                arts, jsonld)
     os.makedirs(os.path.join(PUB, "reports"), exist_ok=True)
     open(os.path.join(PUB, "reports", "index.html"), "w", encoding="utf-8").write(out)
